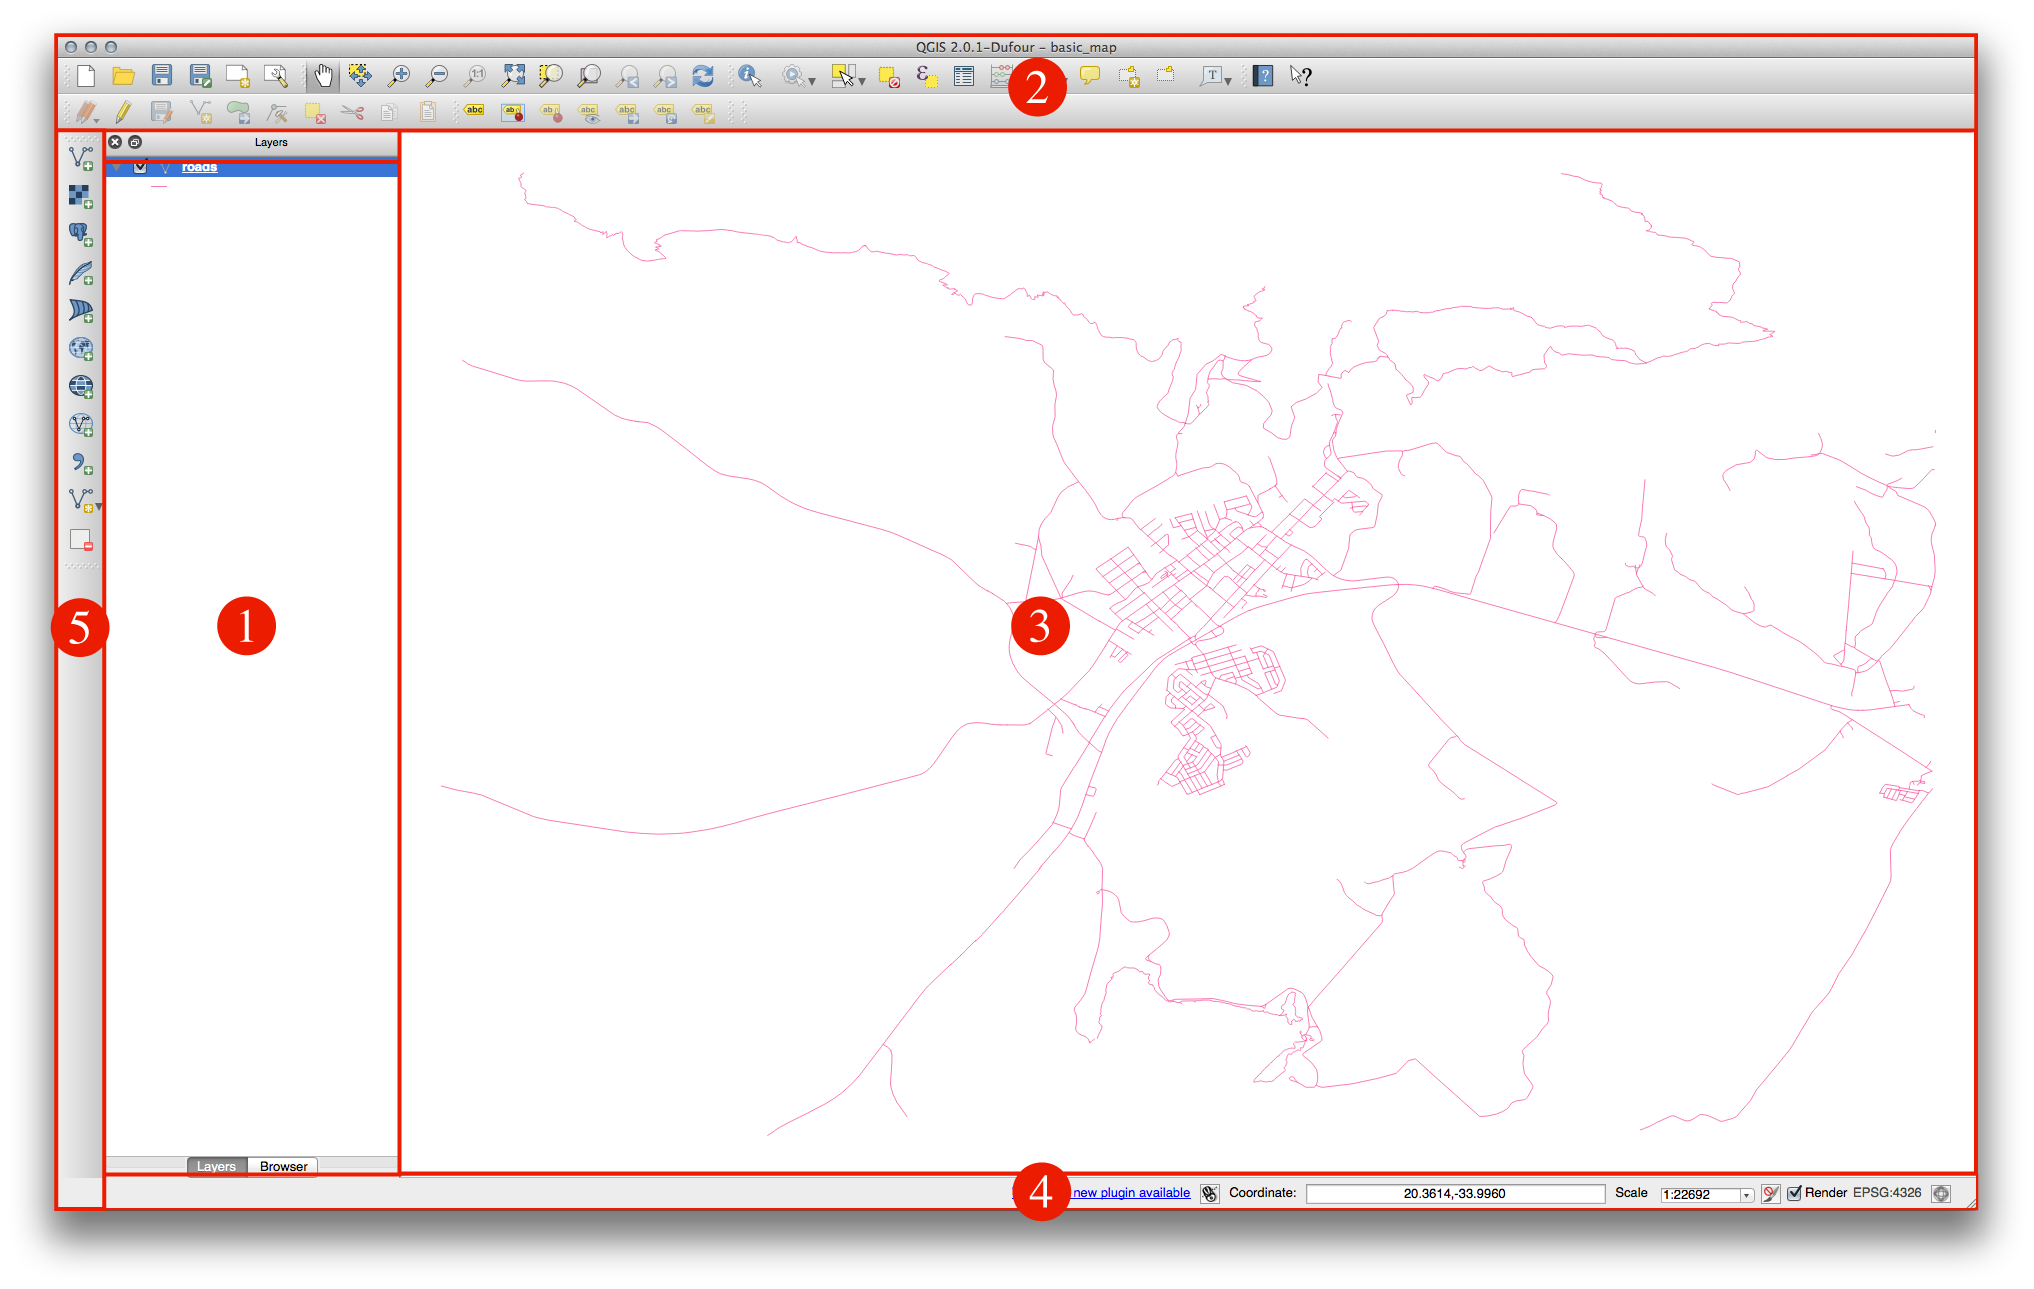
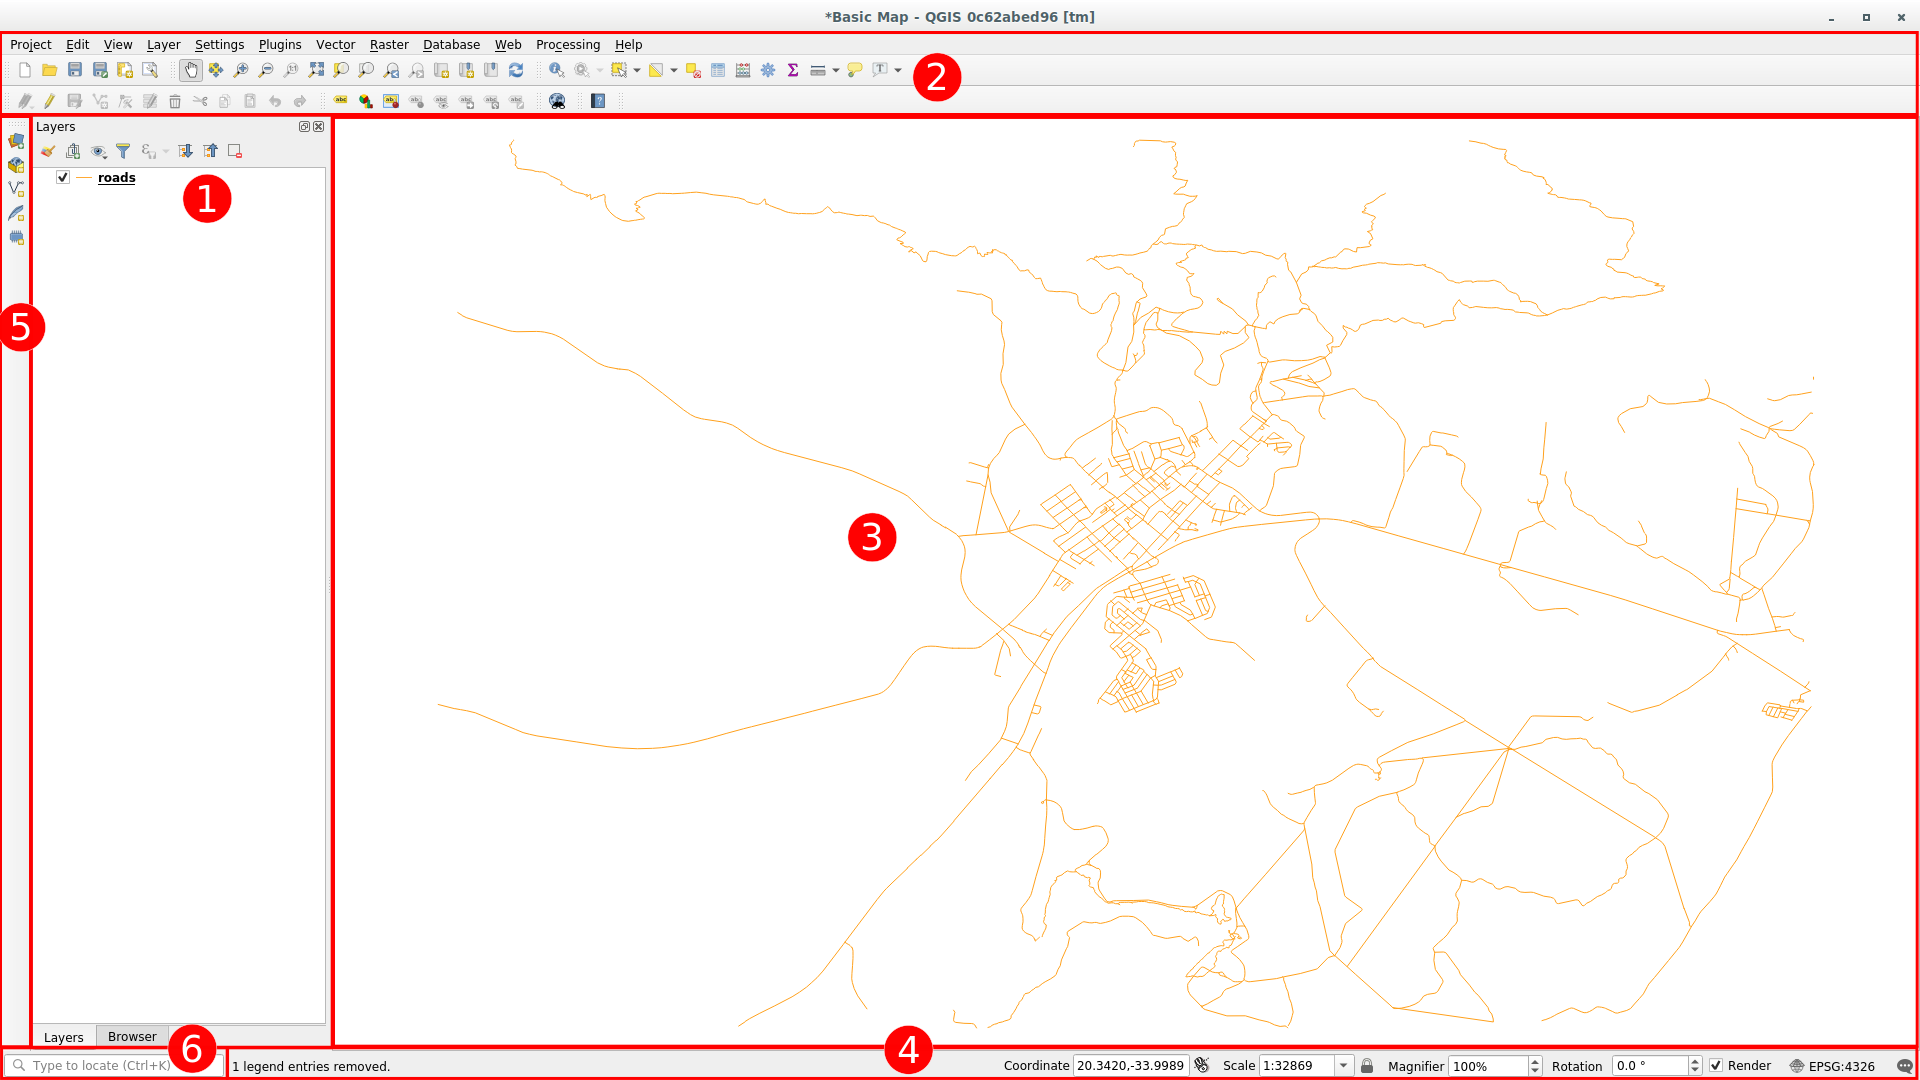
Training Manual - introdution chapter

diff --git a/source/docs/training_manual/introduction/preparation.rst b/source/docs/training_manual/introduction/preparation.rst
@@ -17,11 +17,11 @@ exercises.
 Launch QGIS from its desktop shortcut, menu item, etc., depending on how you
 configured its installation.
 
-.. note::  The screenshots for this course were taken in QGIS 2.0 running on
-   MacOS. Depending on your setup, the screens you
-   encounter may well appear somewhat different. However, all the same buttons
-   will still be available, and the instructions will work on any OS. You will
-   need QGIS 2.0 (the latest version at time of writing) to use this course.
+.. note::  The screenshots for this course were taken in QGIS 3.2 running on
+   Linux. Depending on your setup, the screens you encounter may well appear
+   somewhat different. However, all the same buttons will still be available,
+   and the instructions will work on any OS. You will need QGIS 3.2 (the latest
+   version at time of writing) to use this course.
 
 Let's get started right away!
 
@@ -32,18 +32,24 @@ Let's get started right away!
 
 * Open QGIS. You will have a new, blank map.
 
-* Look for the :guilabel:`Add Vector Layer` button: |addOgrLayer|
+* Look for the :guilabel:`Open Data Source Manager` button: |dataSourceManager|
 
-* Click on it to open the following dialog:
+* The dialog allows you to use choose the data to load depending on the data
+  type (each tab on the left part of the dialog lists all the data type available)
+  or you can browse the files directly from the folder of your computer (the
+  *Browser* tab, see :ref:`browser_panel_tm` section):
+
+.. image:: img/add_data_dialog.png
+  :align: center
+
+* Click on the :guilabel:`Vector` tab and on the :guilabel:`Browse` button and
+  navigate to the file :kbd:`exercise_data/epsg4326/roads.shp` (in your course
+  directory). With this file selected, click :guilabel:`Open`. You will see the
+  original dialog, but with the file path filled in. Click :guilabel:`Add` here
+  as well. The data you specified will now load.
 
 .. image:: img/add_vector_dialog.png
-   :align: center
-
-* Click on the :guilabel:`Browse` button and navigate to the file
-  :kbd:`exercise_data/epsg4326/roads.shp` (in your course directory). With this
-  file selected, click :guilabel:`Open`. You will see the original dialog, but
-  with the file path filled in. Click :guilabel:`Open` here as well. The data you
-  specified will now load.
+  :align: center
 
 Congratulations! You now have a basic map. Now would be a good time to save
 your work.
@@ -55,6 +61,36 @@ your work.
 
 :ref:`Check your results <interface-preparation-1>`
 
+.. _load_geopackage:
+
+|moderate| |FA| Load a layer from Geopackage
+-------------------------------------------------------------------------------
+
+`Geopackage <http://www.geopackage.org/>`_ is an open format for storing
+geospatial data. QGIS 3 adds a lot of support to this new format that is slowly
+replacing the ESRI shapefile format.
+
+Geopackage is a single file format that can contain different type of data: vector
+and raster files but also tables without spatial information in them (like CSV file
+files).
+
+Together with the ESRI shapefiles you can find a Geopackage in the
+``training_manual_exercise_data.zip`` file.
+
+In order to load a file from a Geopackage click on the |dataSourceManager| button
+and on the left click on the |newGeoPackageLayer|:guilabel:`GeoPackage` tab.
+Click on the :kbd:`New` button and look for the ``training_data.gpkg`` file in the
+Training Data folder you have downloaded before. Once you have chosen the file
+click on :kbd:`Connect` button. You should see in the central part of the window
+the list of all the files contained in the Geopackage:
+
+.. image:: img/add_data_dialog_geopackage.png
+  :align: center
+
+Select the layer you want to load and click on  the :kbd:`Add` button.
+
+Congratulations! You have loaded the first layer from a Geopackage file.
+
 |IC|
 -------------------------------------------------------------------------------
 
@@ -63,7 +99,7 @@ You've learned how to add a layer and create a basic map!
 |WN|
 -------------------------------------------------------------------------------
 
-Now you're familiar with the function of the :guilabel:`Add Vector Layer`
+Now you're familiar with the function of the :guilabel:`Open Data Source Manager`
 button, but what about all the others? How does this interface work? Before we
 go on with the more involved stuff, let's first take a good look at the general
 layout of the QGIS interface. This is the topic of the next lesson.
@@ -79,9 +115,12 @@ layout of the QGIS interface. This is the topic of the next lesson.
 .. |IC| replace:: In Conclusion
 .. |LS| replace:: Lesson:
 .. |WN| replace:: What's Next?
-.. |addOgrLayer| image:: /static/common/mActionAddOgrLayer.png
-   :width: 1.5em
 .. |basic| image:: /static/global/basic.png
+.. |dataSourceManager| image:: /static/common/mActionDataSourceManager.png
+   :width: 1.5em
 .. |fileSaveAs| image:: /static/common/mActionFileSaveAs.png
+   :width: 1.5em
+.. |moderate| image:: /static/global/moderate.png
+.. |newGeoPackageLayer| image:: /static/common/mActionNewGeoPackageLayer.png
    :width: 1.5em
 .. |updatedisclaimer| replace:: :disclaimer:`Docs in progress for 'QGIS testing'. Visit http://docs.qgis.org/2.18 for QGIS 2.18 docs and translations.`

diff --git a/source/docs/training_manual/introduction/overview.rst b/source/docs/training_manual/introduction/overview.rst
@@ -27,6 +27,7 @@ The elements identified in the figure above are:
 #. Map canvas
 #. Status bar
 #. Side Toolbar
+#. Locator bar
 
 .. Don't reorder these list items! They refer to elements as numbered on an
    image.
@@ -40,6 +41,10 @@ available to you.
 Expanding collapsed items (by clicking the arrow or plus symbol beside them)
 will provide you with more information on the layer's current appearance.
 
+Hovering the layer will give you some basic information: layer name, type of
+geometry, coordinate reference system and the complete path of the location on
+your device.
+
 Right-clicking on a layer will give you a menu with lots of extra options. You
 will be using some of them before long, so take a look around!
 
@@ -51,13 +56,28 @@ it is present, ensure that it's checked for now.
    such as roads, trees, etc. A vector layer can consist of either points,
    lines or polygons.
 
+.. _browser_panel_tm:
+
 |basic| The Browser Panel
 ...............................................................................
 
 The QGIS Browser is a panel in QGIS that lets you easily navigate in your
 database. You can have access to common vector files (e.g. ESRI shapefile
-or MapInfo files), databases (e.g.PostGIS, Oracle, Spatialite or MSSQL Spatial)
+or Geopackge files), databases (e.g.PostGIS, Oracle, Spatialite or MSSQL Spatial)
 and WMS/WFS connections. You can also view your GRASS data.
+
+If you have saved a project a new the Browser Panel will also give you quick
+access to all the layers stored in the same path of the project file under the
+tab |iconQgsProjectFile| :guilabel:`Project Home`.
+
+Moreover you can set one or more folder as **Favorites**: search under your path
+and once you have found the folder, right click on it and click on ``Add as a
+Favorite``. You should then be able to see your folder in the tab |IconFavourites|
+:guilabel:`Favorites`.
+
+.. tip:: it can happens that the folders added to the |IconFavourites|:guilabel:`Favorites`
+  have a really long name: don't worry right click on the path and choose
+  ``Rename Favorite...`` to set another name.
 
 |basic| Toolbars
 ...............................................................................
@@ -77,13 +97,30 @@ map by clicking on the :guilabel:`Project` menu and then clicking on
 |basic| The Map Canvas
 ...............................................................................
 
-This is where the map itself is displayed.
+This is where the map itself is displayed and where all layers are loaded.
 
 |basic| The Status Bar
 ...............................................................................
 
 Shows you information about the current map. Also allows you to adjust the map
-scale and see the mouse cursor's coordinates on the map.
+scale, the map rotation and see the mouse cursor's coordinates on the map.
+
+|basic| The Side Toolbar
+...............................................................................
+
+By default the Side toobar contains the button to load the layer and all the
+button to create a new layer. But remember that you can move all the toolbars
+wherever it is more comfortable to you.
+
+|basic| The Locator Bar
+...............................................................................
+
+The Locator bar is a new feature of QGIS 3. Within this bar you can access to
+almost all the objects of QGIS: layers, layer features, algorithms, spatial
+bookmarks, etc. Check all the different options in the :ref:`locator-settings`
+section of the QGIS User Manual.
+
+.. tip:: with the shortcut :kbd:`Ctrl+K` you can easily access the bar.
 
 
 .. _backlink-interface-overview-1:
@@ -110,7 +147,7 @@ Try to find each of these tools on your screen. What is their purpose?
 
 2. |zoomToLayer|
 
-3. |whatsThis|
+3. |invertSelection|
 
 4. .. image:: img/toggle_render.png
 
@@ -125,6 +162,17 @@ Try to find each of these tools on your screen. What is their purpose?
 
 :ref:`Check your results <interface-overview-2>`
 
+
+.. _backlink-interface-overview-3:
+
+|basic| |TY| 3
+-------------------------------------------------------------------------------
+
+Try to load some layer, both ESRI shapefile and Geopackage, from the Browser
+panel.
+
+:ref:`Check your results <interface-overview-3>`
+
 |WN|
 -------------------------------------------------------------------------------
 
@@ -138,11 +186,15 @@ to you and start improving on your map! This is the topic of the next lesson.
    please add it also to the substitutions.txt file in the
    source folder.
 
+.. |IconFavourites| image:: /static/common/mIconFavourites.png
+   :width: 1.5em
 .. |LS| replace:: Lesson:
 .. |TY| replace:: Try Yourself
 .. |WN| replace:: What's Next?
 .. |basic| image:: /static/global/basic.png
 .. |fileSaveAs| image:: /static/common/mActionFileSaveAs.png
+   :width: 1.5em
+.. |iconQgsProjectFile| image:: /static/common/mIconQgsProjectFile.png
    :width: 1.5em
 .. |measure| image:: /static/common/mActionMeasure.png
    :width: 1.5em

diff --git a/source/docs/training_manual/answers/answers.rst b/source/docs/training_manual/answers/answers.rst
@@ -46,6 +46,14 @@ remember the names and functions of the screen elements.
 
 :ref:`Back to text <backlink-interface-overview-2>`
 
+.. _interface-overview-3:
+
+|basic| *Overview* (Part 3)
+...............................................................................
+
+Refer back to the :ref:`browser_panel_tm` and to :ref:`load_geopackage` sections.
+
+:ref:`Back to text <backlink-interface-overview-3>`
 
 |RF| *Working with Vector Data*
 -------------------------------------------------------------------------------
